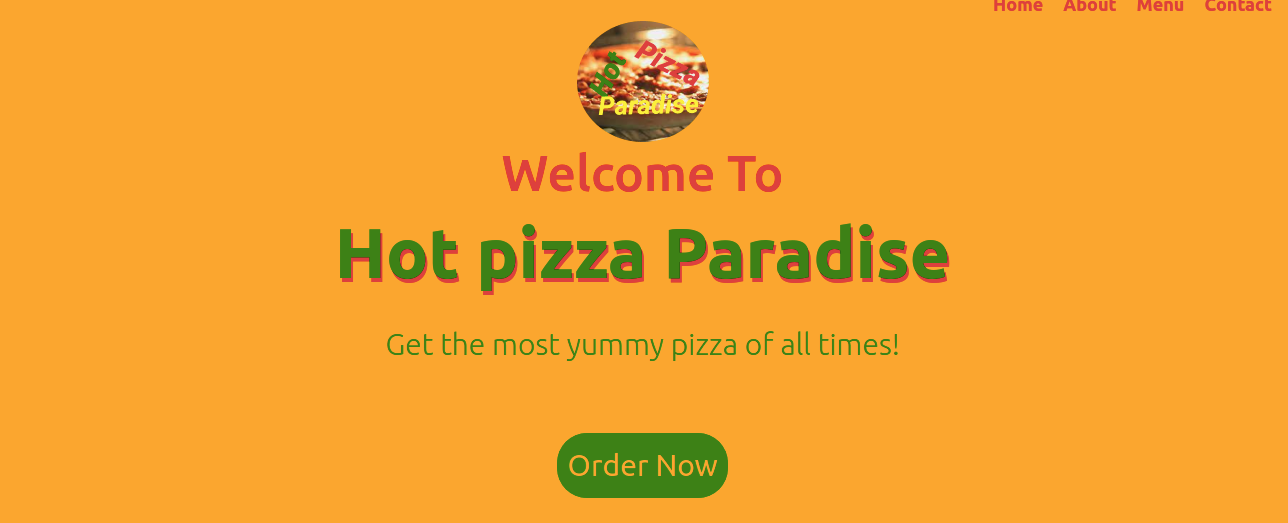
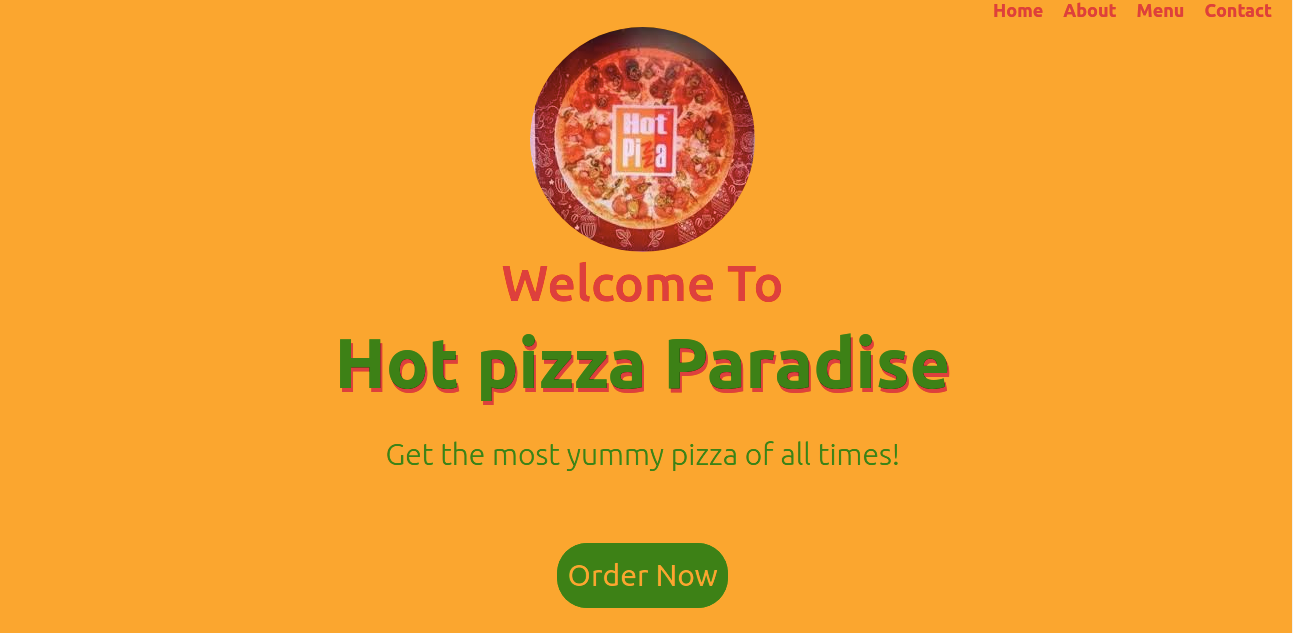
modify README.md

diff --git a/index.html b/index.html
@@ -23,10 +23,13 @@
         </div>
         <div class="container text-center header" id="home">
           <div>
-            <img src="assets/pizza.png" alt="logo" class=" logo">
+            <img src="assets/images.jpeg" alt="logo" class=" logo">
           </div>
           <h2 class="intro">Welcome To</h2>
-          <div class="heading2"><h1 class="heading" >Hot pizza Paradise</h1></div>
+          <div class="row">
+            <img src="" alt="">
+            <div class="heading2"><h1 class="heading" >Hot pizza Paradise</h1></div>
+          </div>
           <p>Get the most yummy pizza of all times!</p>
           <div class="order"><a href="#Order-now" ><button>Order Now</button> </a>
           </div>

diff --git a/js/script.js b/js/script.js
@@ -17,8 +17,6 @@ $("#form").on('submit',function(event){
 });
 // end of contact form validation
 
-// sticky navbar
-
 var mybutton = document.getElementById("myBtn");
 window.onscroll = function() {scrollFunction()};
 
@@ -35,6 +33,7 @@ function topFunction() {
   document.documentElement.scrollTop = 0;
 }
 
+// sticky navbar
 window.onscroll = function() {myFunction()};
 
 var navbar = document.getElementById("navbar");

diff --git a/css/index.css b/css/index.css
@@ -237,5 +237,6 @@ body{
 input l{
   color: green;
 }
-
-
+.logo {
+  border-radius: 50%;
+}
